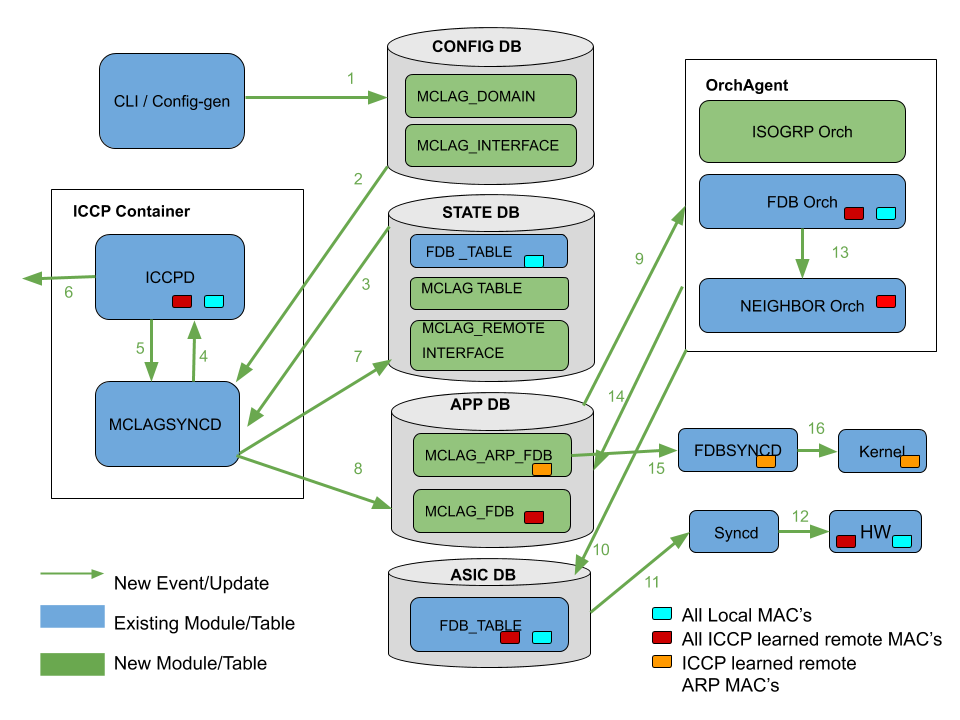
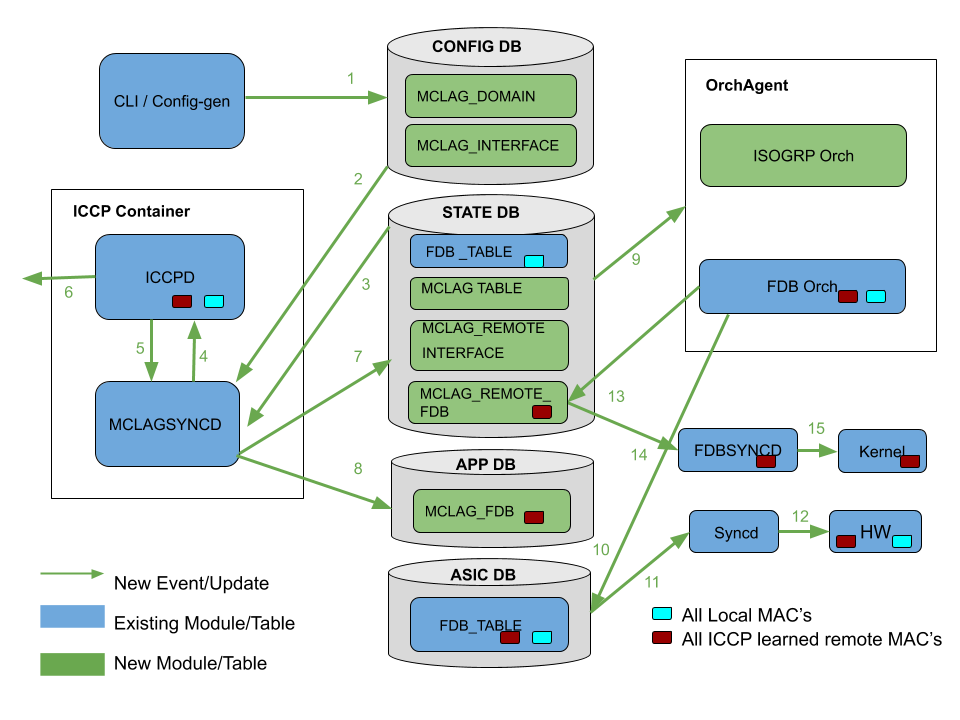
Updated the details of Remote MAC progragming to kernel.
Updated the details of Remote MAC progragming to kernel.

diff --git a/doc/mclag/MCLAG_Enhancements_HLD.md b/doc/mclag/MCLAG_Enhancements_HLD.md
@@ -39,7 +39,7 @@ Rev 0.1
 		- [3.2.3 STATE DB](#3_2_3-STATE-DB)
 			- *[3.2.3.1 STATE_MCLAG_TABLE](#3_2_3_1-STATE_MCLAG_TABLE)*
 			- *[3.2.3.2 STATE_MCLAG_REMOTE_INTF_TABLE](#3_2_3_2-STATE_MCLAG_REMOTE_INTF_TABLE)*
-			- *[3.2.3.3 STATE_MCLAG_ARP_FDB_TABLE](#3_2_3_3-STATE_MCLAG_ARP_FDB_TABLE)*
+			- *[3.2.3.3 STATE_MCLAG_REMOTE_FDB_TABLE](#3_2_3_3-STATE_MCLAG_REMOTE_FDB_TABLE)*
 	- [3.3 ICCP Changes](#3_3-ICCP-Changes)
 		- [3.3.1 MCLAG interface flap handling](#3_3_1-MCLAG-interface-flap-handling)
 		- [3.3.2 MCLAG configuration change handling](#3_3_2-MCLAG-configuration-change-handling)
@@ -55,7 +55,7 @@ Rev 0.1
 			- *[3.4.1.1 Isolation group orch agent](#3_4_1_1-Isolation-group-orch-agent)*
 			- *[3.4.1.2 PortsOrch Changes](#3_4_1_2-PortsOrch-Changes)*
 			- *[3.4.1.3 FdbOrch Changes](#3_4_1_3-FdbOrch-Changes)*
-			- *[3.4.1.4 MCLAG ARP MAC update to Kernel](#3_4_1_4-MCLAG-ARP-MAC-update-to-Kernel)*
+			- *[3.4.1.4 MCLAG REMOTE MAC update to Kernel](#3_4_1_4-MCLAG-REMOTE-MAC-update-to-Kernel)*
 	- [3.5 SyncD](#3_5-SyncD)
 	- [3.6 MclagSyncD](#3_6-MclagSyncD)
 		- [3.6.1 FDB Changes](#3_6_1-FDB-Changes)
@@ -224,9 +224,8 @@ Below is the summary of the changes for each flow number mentioned in the above 
 10. FdbOrch updates remote MAC addresses with new SAI attribute not to age them out. 
 11. Syncd gets the ICCP learned remote MAC addresses with new SAI attribute SAI_FDB_ENTRY_TYPE_STATIC_MACMOVE set .
 12. Syncd programs the remote MAC to HW
-13. FdbOrch registers with NeighborOrch for all the ICCP learned remote MAC addresses.
-14. NeighborOrch update the MAC address to STATE_DB MCLAG ARP MAC Table.
-15. FdbSycd gets the MAC updates from STATE_DB MCLAG ARP MAC Table.
+14. FdbOrch update the MAC address to STATE_DB MCLAG REMOTE FDB Table.
+15. FdbSycd gets the MAC updates from STATE_DB MCLAG REMOTE FDB Table.
 16. FdbSyncd programs the MAC updates to kernel.
 
 ## 3.2 DB Changes
@@ -370,16 +369,16 @@ ifname         = 1*64VCHAR        ; name of the MCLAG Interface (PortChannel)
 
 ```
 
-#### 3.2.3.3 STATE_MCLAG_ARP_FDB_TABLE
+#### 3.2.3.3 STATE_MCLAG_REMOTE_FDB_TABLE_NAME
 
 Producer: FdbOrch
-Consumer: NeighborOrch 
-Description: New table to populate the ICCP learned remote MAC entries which have ARP entries are associated. 
+Consumer: FdbSyncd
+Description: New table to populate the ICCP learned remote MAC entries for kernel programming.
 Schema:
 
 ```
-; New STATE_MCLAG_ARP_FDB_TABLE
-key            = MCLAG_ARP_FDB_TABLE:"Vlan"vlanid:mac_address
+; New STATE_MCLAG_REMOTE_FDB_TABLE_NAME
+key            = MCLAG_REMOTE_FDB_TABLE:"Vlan"vlanid:mac_address
 
 ;value annotations
 vlanid 	   	   = DIGIT 1-4095     ; VLAN id.
@@ -457,15 +456,11 @@ When a static MAC address is configured locally and same MAC address is learned 
 
 If the ICCP learned MAC is static, then any dynamic MAC move will be discarded by FdbOrch.
 
-#### 3.4.1.4 MCLAG ARP MAC update to Kernel
+#### 3.4.1.4 MCLAG remote FDB update to Kernel
 
-ARP entries present in the system will need the associated MAC entries to be programmed in kernel to allow the local system and applications to reach the associated IP address. When ICCP receives a MAC update, if an ARP entry is associated with the MAC address then the MAC address needs to be programmed in kernel.  FdbOrch notifies NeighborOrch when MAC is learned via ICCP and NeighborOrch updates the MCLAG_ARP_FDB_TABLE in STATE_DB accordingly. FDBSyncd subscribes to this table and programs the kernel as required. A similar path is used to update kernel MAC entry If there is an interface change associated with the MAC or when the MAC address is deleted. 
+MCLAG remote MAC entries to be programmed in kernel to allow the local system and applications to reach the associated IP address. ICCP received MAC address needs to be programmed in kernel.  FdbOrch  updates the MCLAG_REMOTE_FDB_TABLE in STATE_DB accordingly. FDBSyncd subscribes to this table and programs the kernel as required. A similar path is used to update kernel MAC entry If there is an interface change associated with the MAC or when the MAC address is deleted. 
 
-Below Diagram show the remote ICCP MAC update to Kernel.
 
-![MCLAG ARP MAC kernel update Diagram](images/MclagArpFdbKernelUpdate.png "MCLAG ARP interested MAC kernel programming Flow")
-
-**Figure 2: MCLAG ARP interested MAC kernel programming Flow**
 
 ## 3.5 SyncD
 No change to SyncD
